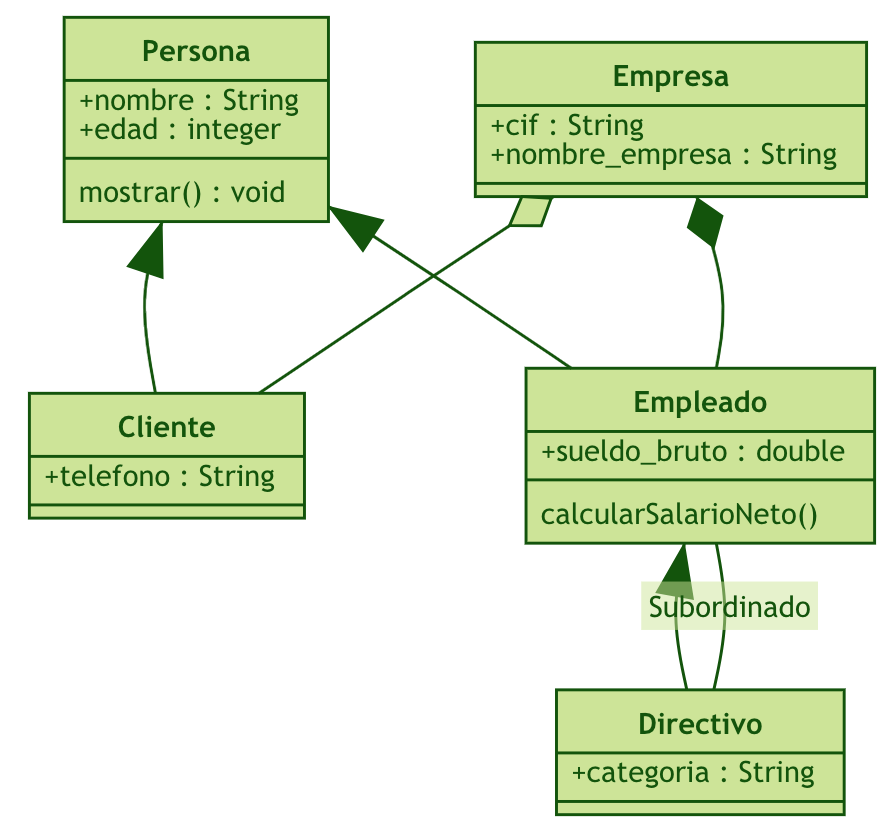
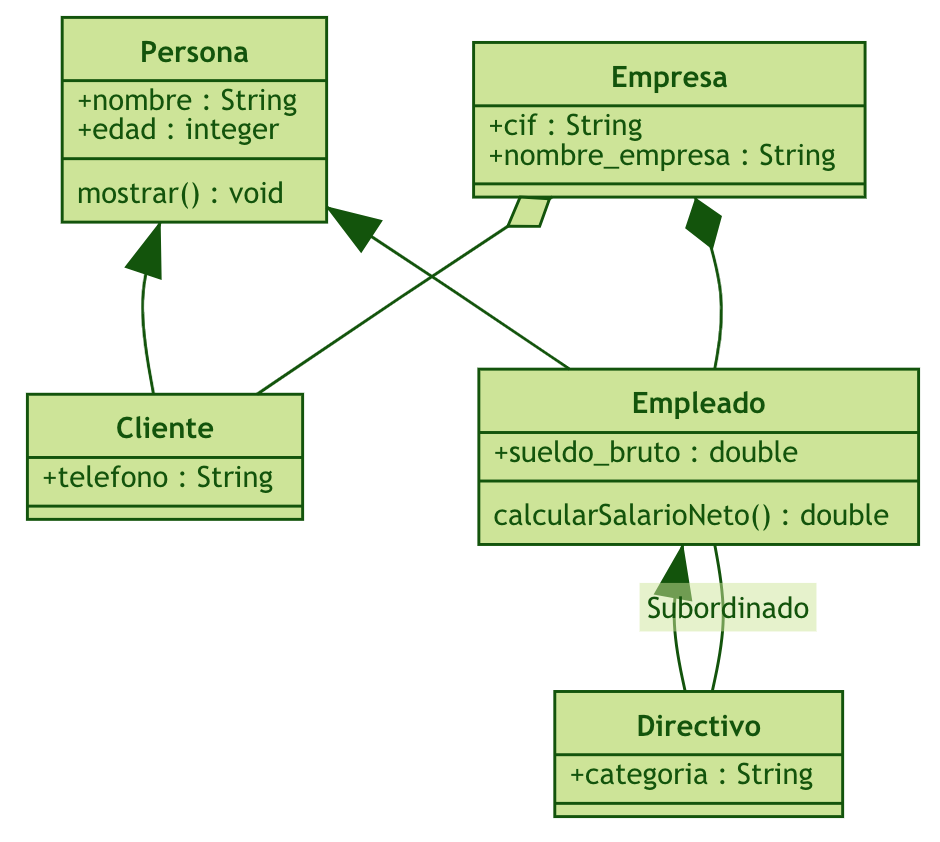
Terminada la primera práctica de Markdown

Changed region(s): [[0.0, 0.0, 1.0, 0.9976]]

diff --git a/src/markdown/Practica1_Markdown.md b/src/markdown/Practica1_Markdown.md
@@ -24,7 +24,7 @@ classDiagram
 
     class Empleado {
         +sueldo_bruto : double
-        calcularSalarioNeto() : double
+        calcularSalarioNeto() double
     }
 
     class Cliente {
